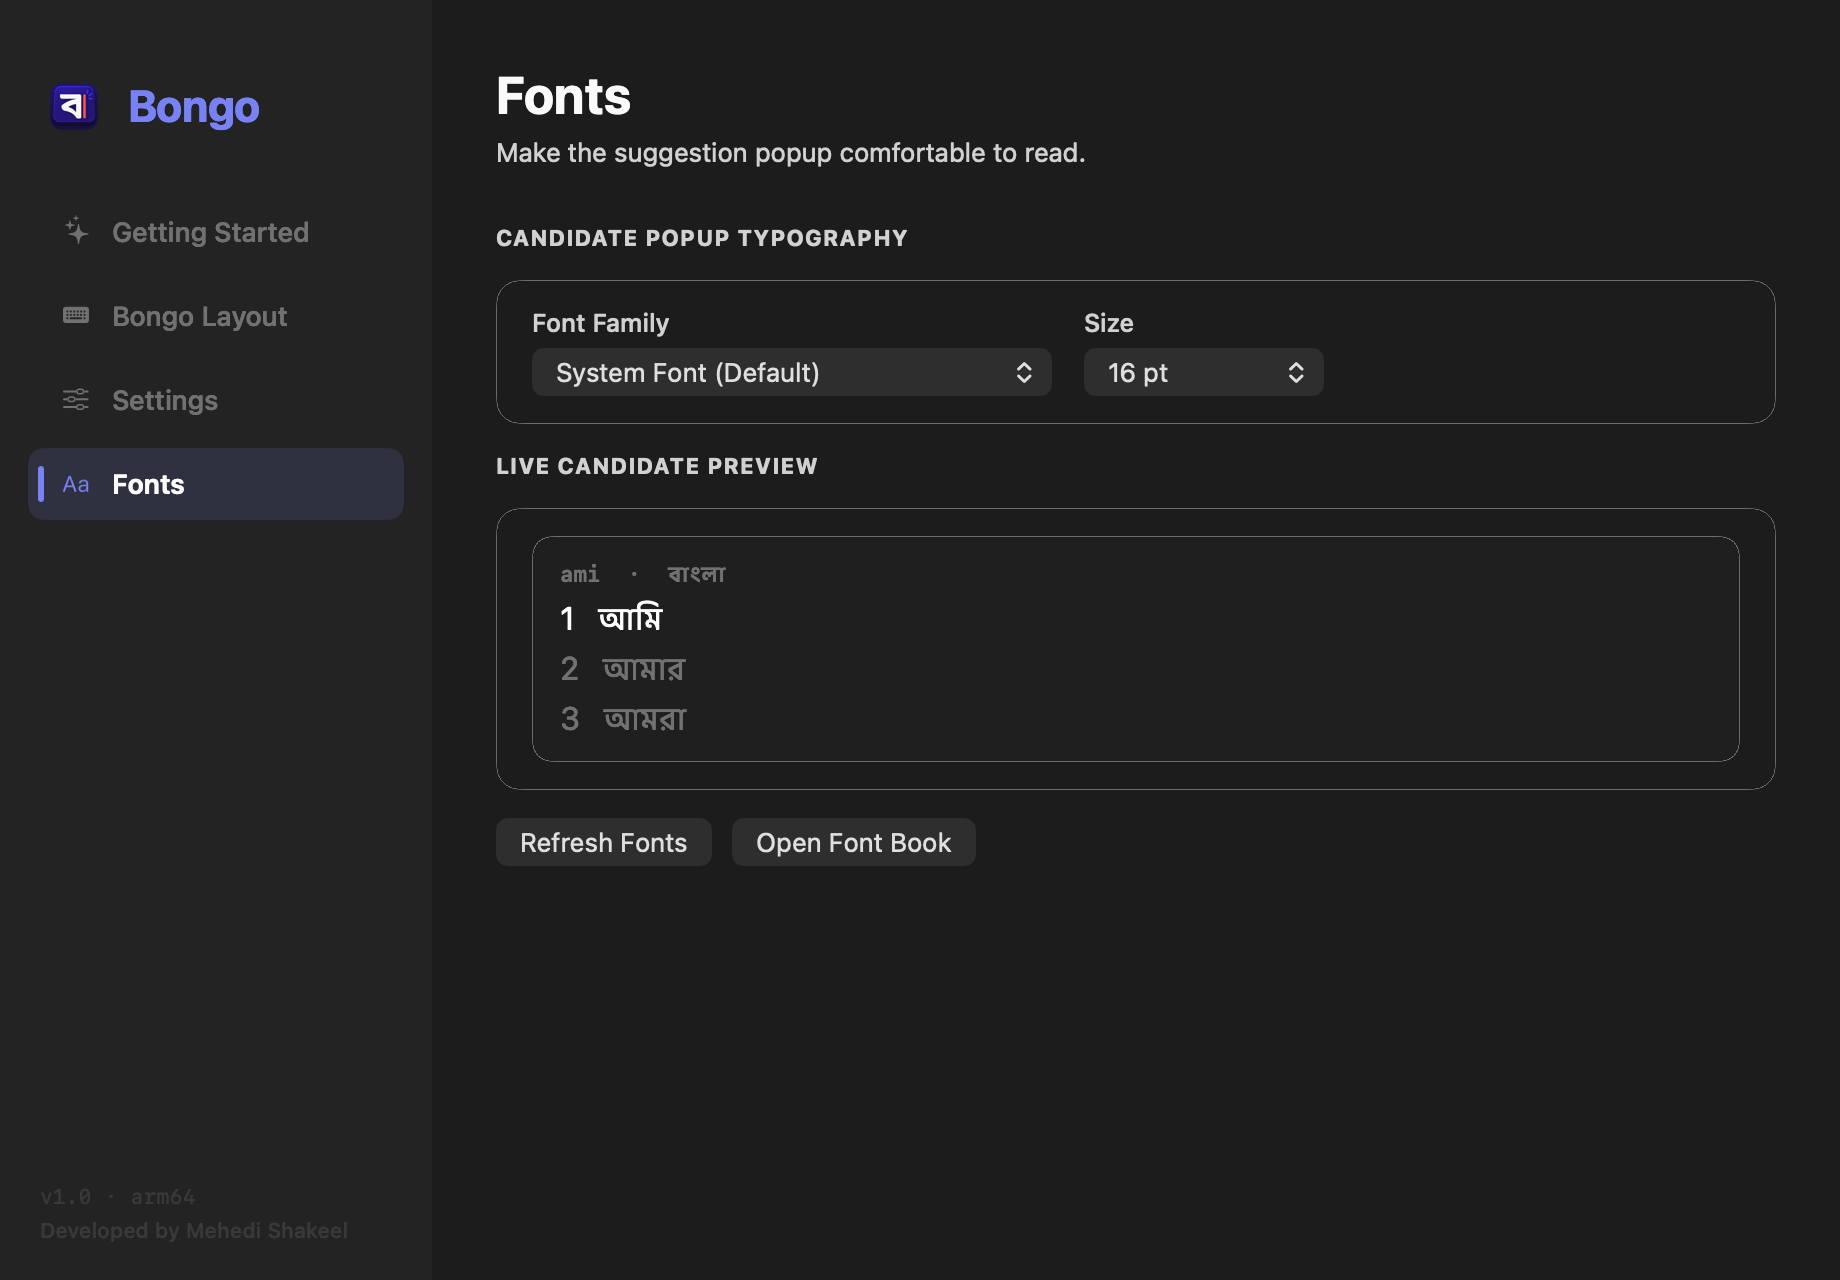
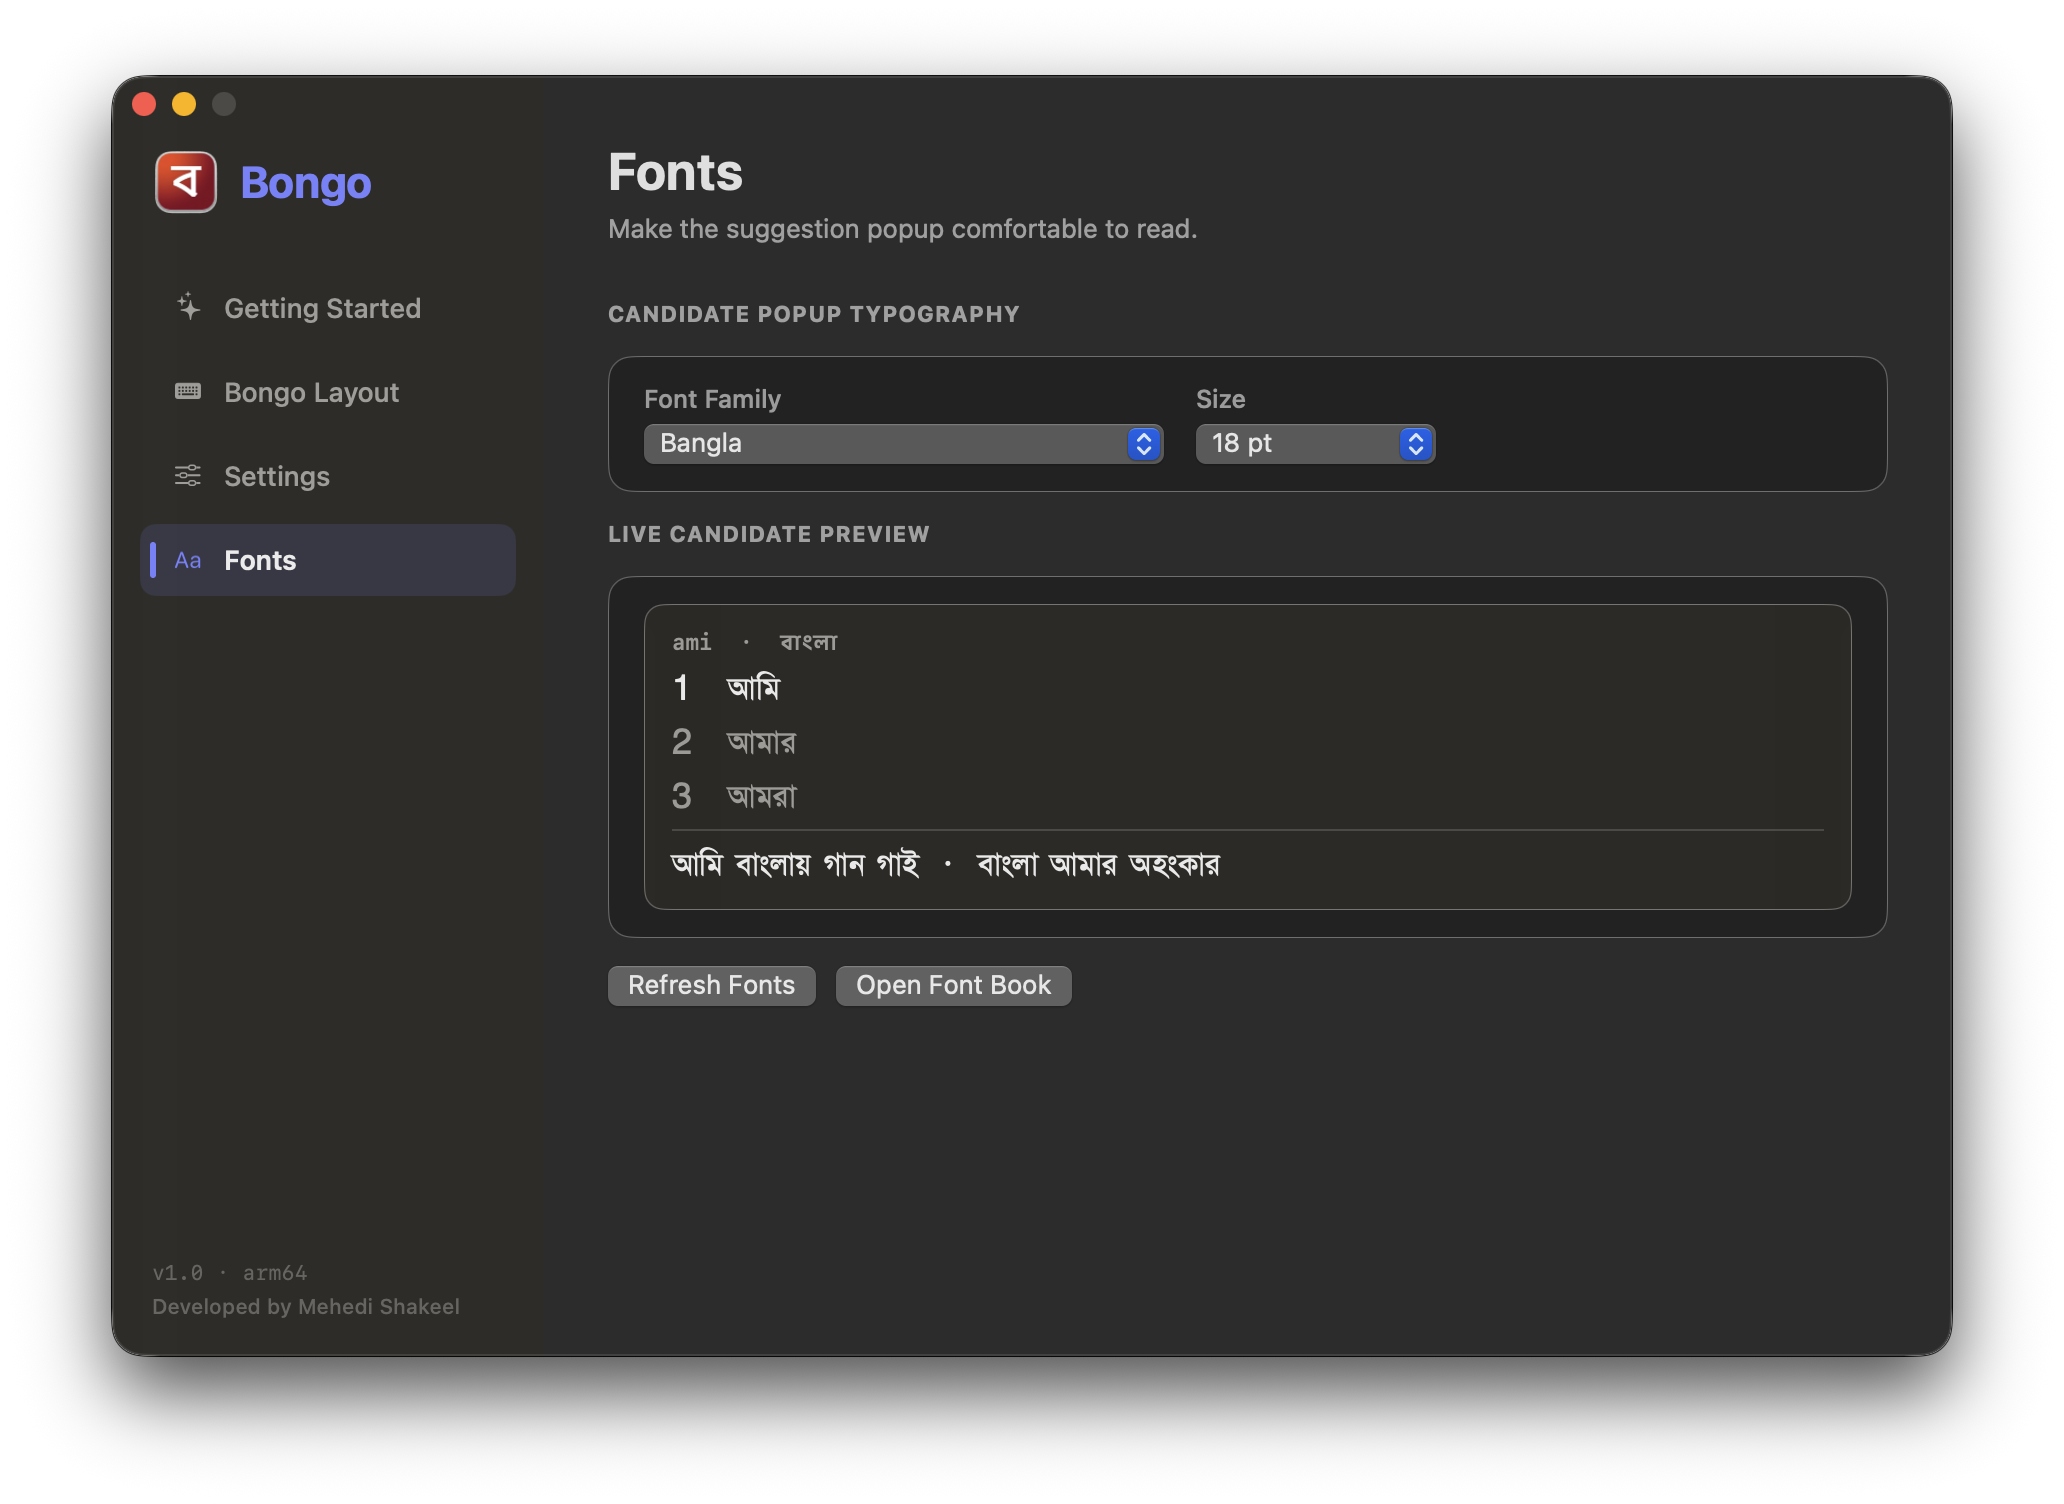
feat(docs): update Desktop Interface with latest macOS app screenshots

Changed region(s): [[0.0, 0.0, 1.0, 1.0], [0.2788, 0.4062, 0.8984, 0.6875], [0.2168, 0.3438, 0.4647, 0.4062]]

diff --git a/docs/index.html b/docs/index.html
@@ -707,26 +707,20 @@
                     <button class="gallery-tab-btn active" data-target="tab-welcome" role="tab" aria-selected="true">
                         <span data-i18n="tab.welcome">Getting Started</span>
                     </button>
+                    <button class="gallery-tab-btn" data-target="tab-layout" role="tab" aria-selected="false">
+                        <span data-i18n="tab.layout">Bongo Layout</span>
+                    </button>
                     <button class="gallery-tab-btn" data-target="tab-settings" role="tab" aria-selected="false">
                         <span data-i18n="tab.settings">Typing Settings</span>
                     </button>
                     <button class="gallery-tab-btn" data-target="tab-fonts" role="tab" aria-selected="false">
                         <span data-i18n="tab.fonts">Font Preview</span>
                     </button>
-                    <button class="gallery-tab-btn" data-target="tab-hud" role="tab" aria-selected="false">
-                        <span data-i18n="tab.hud">HUD Candidate Bar</span>
-                    </button>
                 </div>
 
                 <div class="tab-showcase-panel">
                     <div class="gallery-item active" id="tab-welcome" role="tabpanel">
                         <div class="mac-preview-frame">
-                            <div class="preview-titlebar">
-                                <span class="light red"></span>
-                                <span class="light yellow"></span>
-                                <span class="light green"></span>
-                                <span class="frame-label">Bongo: Getting Started</span>
-                            </div>
                             <img src="assets/bongo-getting-started.png" alt="Bongo Getting Started Window" class="preview-img" loading="lazy">
                         </div>
                         <div class="preview-caption">
@@ -735,14 +729,18 @@
                         </div>
                     </div>
 
+                    <div class="gallery-item" id="tab-layout" role="tabpanel">
+                        <div class="mac-preview-frame">
+                            <img src="assets/bongo-layout.png" alt="Bongo Layout Key Map Window" class="preview-img" loading="lazy">
+                        </div>
+                        <div class="preview-caption">
+                            <h3 data-i18n="caption.layout_title">Visual Phonetic Key Map</h3>
+                            <p data-i18n="caption.layout_desc">Comprehensive phonetic layout map with instant search filter for consonants, vowels, and compounds right inside the app.</p>
+                        </div>
+                    </div>
+
                     <div class="gallery-item" id="tab-settings" role="tabpanel">
                         <div class="mac-preview-frame">
-                            <div class="preview-titlebar">
-                                <span class="light red"></span>
-                                <span class="light yellow"></span>
-                                <span class="light green"></span>
-                                <span class="frame-label">Bongo: Settings</span>
-                            </div>
                             <img src="assets/bongo-settings.png" alt="Bongo Settings Window" class="preview-img" loading="lazy">
                         </div>
                         <div class="preview-caption">
@@ -753,27 +751,11 @@
 
                     <div class="gallery-item" id="tab-fonts" role="tabpanel">
                         <div class="mac-preview-frame">
-                            <div class="preview-titlebar">
-                                <span class="light red"></span>
-                                <span class="light yellow"></span>
-                                <span class="light green"></span>
-                                <span class="frame-label">Bongo: Fonts & Typography</span>
-                            </div>
                             <img src="assets/bongo-fonts.png" alt="Bongo Font Customization and Live Preview" class="preview-img" loading="lazy">
                         </div>
                         <div class="preview-caption">
                             <h3 data-i18n="caption.fonts_title">Customizable Bengali Typography</h3>
                             <p data-i18n="caption.fonts_desc">Select any Bengali font installed on your Mac (Kohinoor Bangla, Noto Sans Bengali, Ekush, July, etc.) with real-time candidate size adjustment.</p>
-                        </div>
-                    </div>
-
-                    <div class="gallery-item" id="tab-hud" role="tabpanel">
-                        <div class="mac-preview-frame hud-box">
-                            <img src="assets/bongo-hud-candidate.png" alt="Bongo HUD Candidate Bar on macOS" class="preview-hud-img" loading="lazy">
-                        </div>
-                        <div class="preview-caption">
-                            <h3 data-i18n="caption.hud_title">Tactile Candidate HUD</h3>
-                            <p data-i18n="caption.hud_desc">Floating translucent candidate window with fast numbered shortcuts [1], [2], [3], smooth arrow navigation, and high-contrast pill selection.</p>
                         </div>
                     </div>
                 </div>

diff --git a/docs/translations.js b/docs/translations.js
@@ -123,17 +123,17 @@ window.BONGO_TRANSLATIONS = {
         "screenshots.title": "Native, Familiar Desktop Design",
         "screenshots.desc": "Settings, font customization, and floating candidate controls designed to look and feel right at home on modern macOS and Linux.",
         "tab.welcome": "Getting Started",
+        "tab.layout": "Bongo Layout",
         "tab.settings": "Typing Settings",
         "tab.fonts": "Font Preview",
-        "tab.hud": "HUD Candidate Bar",
         "caption.welcome_title": "Frictionless Onboarding",
         "caption.welcome_desc": "One-click link to system Keyboard settings, quick shortcut cheat sheet, and a built-in playground to verify your typing setup instantly.",
+        "caption.layout_title": "Visual Phonetic Key Map",
+        "caption.layout_desc": "Comprehensive phonetic layout map with instant search filter for consonants, vowels, and compounds right inside the app.",
         "caption.settings_title": "3 Flexible Typing Modes",
         "caption.settings_desc": "Choose between <strong>Phonetic first</strong> (recommended), <strong>Smart suggestions</strong>, or <strong>Phonetic only</strong>. Toggle emoji suggestions and check for updates effortlessly.",
         "caption.fonts_title": "Customizable Bengali Typography",
         "caption.fonts_desc": "Select any Bengali font installed on your system (Noto Sans Bengali, Kohinoor Bangla, Kalpurush, etc.) with real-time candidate size adjustment.",
-        "caption.hud_title": "Tactile Candidate HUD",
-        "caption.hud_desc": "Floating candidate window with fast numbered shortcuts [1], [2], [3], smooth arrow navigation, and high-contrast pill selection.",
 
         // Features
         "features.eyebrow": "Built for Speed & Privacy",
@@ -368,17 +368,17 @@ window.BONGO_TRANSLATIONS = {
         "screenshots.title": "পরিচিত ও পরিচ্ছন্ন ডেস্কটপ ডিজাইন",
         "screenshots.desc": "ম্যাকওএস এবং লিনাক্স উভয় অপারেটিং সিস্টেমে স্বাচ্ছন্দ্যে ব্যবহারের জন্য নির্মিত সেটিংস, ফন্ট কাস্টমাইজেশন ও ভাসমান ক্যান্ডিডেট বার।",
         "tab.welcome": "শুরু করার নির্দেশিকা",
+        "tab.layout": "বঙ্গো লেআউট",
         "tab.settings": "টাইপিং সেটিংস",
         "tab.fonts": "ফন্ট প্রিভিউ",
-        "tab.hud": "HUD ক্যান্ডিডেট বার",
         "caption.welcome_title": "সহজ অনবোর্ডিং গাইড",
         "caption.welcome_desc": "সিস্টেম কিবোর্ড সেটিংসে সরাসরি যাওয়ার ব্যবস্থা, শর্টকাট তালিকা এবং টাইপিং পরীক্ষা করার জন্য নিজস্ব প্লেগ্রাউন্ড।",
+        "caption.layout_title": "ভিজ্যুয়াল ফোনেটিক কি ম্যাপ",
+        "caption.layout_desc": "অ্যাপের ভেতর থেকেই স্বরবর্ণ, ব্যঞ্জনবর্ণ ও যুক্তবর্ণের সম্পূর্ণ কি ম্যাপিং এবং তাৎক্ষণিক ফিল্টার সার্চের সুবিধা।",
         "caption.settings_title": "৩টি সহজ টাইপিং মোড",
         "caption.settings_desc": "পছন্দমতো বেছে নিন: <strong>ফোনেটিক ফার্স্ট</strong> (প্রস্তাবিত), <strong>স্মার্ট সাজেশন</strong> অথবা <strong>কেবল ফোনেটিক</strong>। ইমোজি সাজেশন ও আপডেট যাচাইয়ের সহজ নিয়ন্ত্রণ।",
         "caption.fonts_title": "কাস্টমাইজযোগ্য বাংলা টাইপোগ্রাফি",
         "caption.fonts_desc": "সিস্টেমে ইনস্টল থাকা যেকোনো বাংলা ফন্ট (Noto Sans Bengali, Kalpurush, Kohinoor Bangla ইত্যাদি) নির্বাচন করুন এবং ক্যান্ডিডেট বারের ফন্ট সাইজ নিয়ন্ত্রণ করুন।",
-        "caption.hud_title": "স্মার্ট ক্যান্ডিডেট HUD",
-        "caption.hud_desc": "কার্সারের পাশে ভাসমান উইন্ডো, দ্রুত [১], [২], [৩] নম্বর শর্টকাট এবং মসৃণ অ্যারো নেভিগেশন।",
 
         // Features
         "features.eyebrow": "গতি ও সুরক্ষার নিশ্চয়তা",

diff --git a/docs/styles.css b/docs/styles.css
@@ -1486,55 +1486,23 @@ kbd {
 }
 
 .mac-preview-frame {
-    background: var(--canvas);
-    border: 1px solid var(--window-border);
-    border-radius: 18px;
-    box-shadow: var(--shadow-window);
-    overflow: hidden;
-}
-
-.preview-titlebar {
+    background: transparent;
+    border: none;
+    border-radius: 0;
+    box-shadow: none;
+    overflow: visible;
     display: flex;
+    justify-content: center;
     align-items: center;
-    gap: 7px;
-    height: 38px;
-    padding: 0 1rem;
-    background: rgba(0, 0, 0, 0.02);
-    border-bottom: 1px solid var(--border-hairline);
-}
-
-.frame-label {
-    font-size: 0.78rem;
-    font-weight: 500;
-    color: var(--text-tertiary);
-    margin-left: 0.5rem;
 }
 
 .preview-img {
     width: 100%;
-    display: block;
-}
-
-.mac-preview-frame.hud-box {
-    max-width: 572px;
-    margin: 0 auto;
-    padding: 0;
-    display: flex;
-    justify-content: center;
-    align-items: center;
-    background: #111418;
-    border: 1px solid var(--window-border);
-    border-radius: 18px;
-    overflow: hidden;
-    box-shadow: var(--shadow-window);
-}
-
-.preview-hud-img {
-    width: 100%;
+    max-width: 1020px;
     height: auto;
     display: block;
-    border-radius: 0;
-    box-shadow: none;
+    margin: 0 auto;
+    transition: transform 0.25s ease;
 }
 
 .preview-caption {
